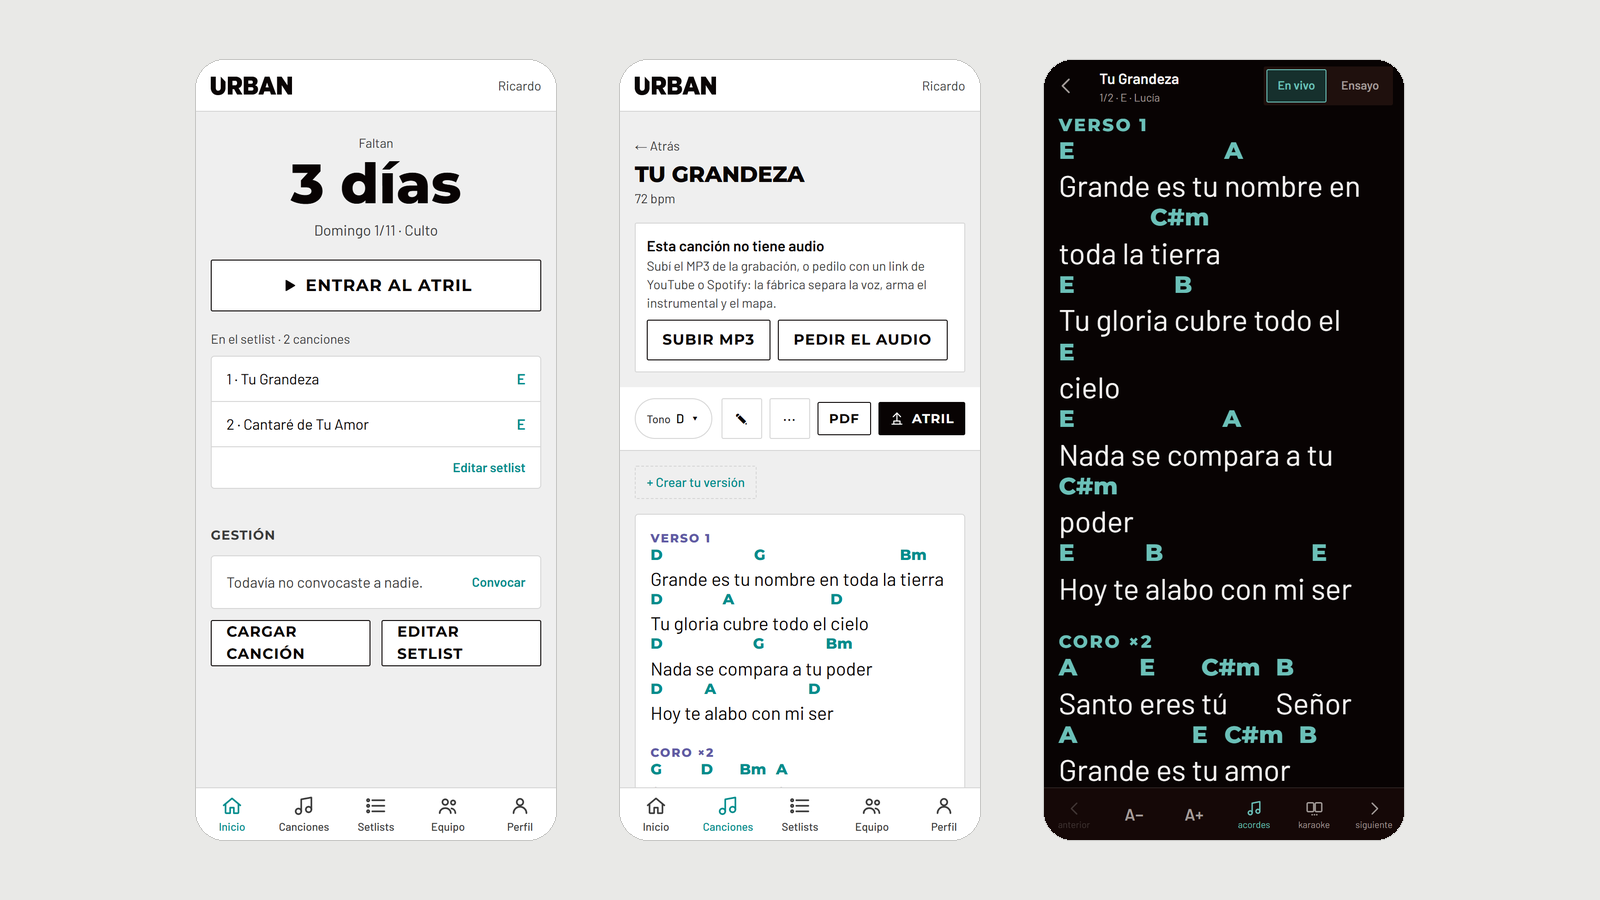
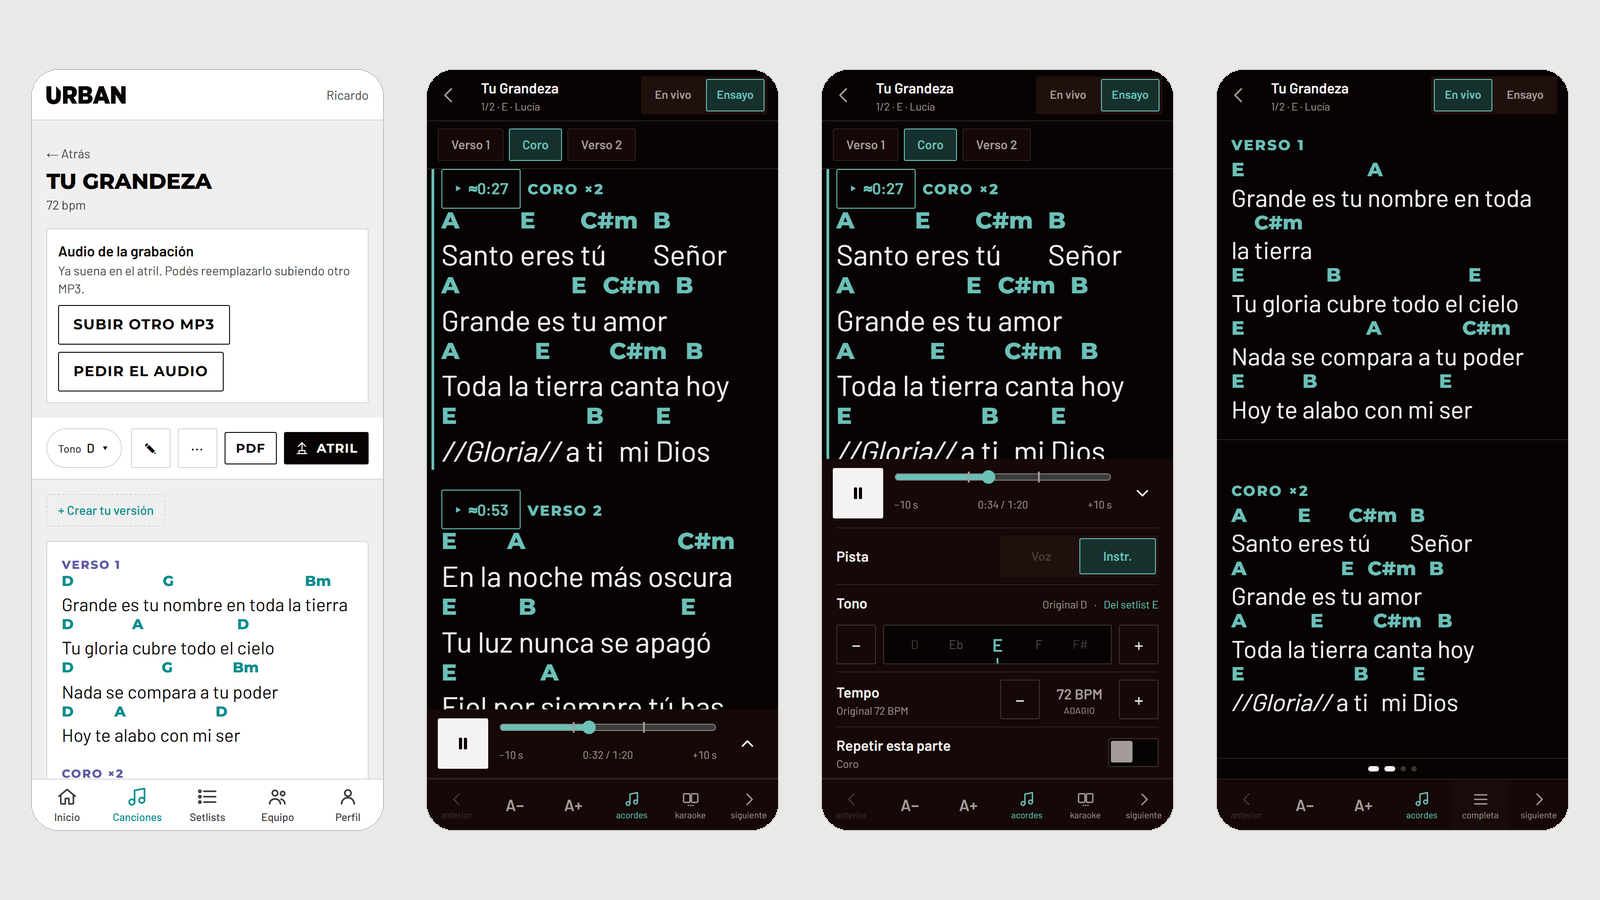
Songbook: capturas del modo Ensayo con audio y del karaoke

diff --git a/data/projects.ts b/data/projects.ts
@@ -66,7 +66,7 @@ export const projects: Project[] = [
     year: 2026,
     stack: ['Next.js', 'TypeScript', 'Drizzle ORM', 'PostgreSQL (Neon)', 'Web Push', 'Zod'],
     problem: 'Un equipo de música coordina por WhatsApp: quién toca, qué canciones, en qué tonalidad y con qué letra actualizada. La información se pierde entre mensajes y cada músico termina con su propia versión del repertorio.',
-    solution: 'Un cancionero único con acordes, transposición de tonalidad y capo personal por músico; setlists con convocatoria y confirmación de asistencia; atril con acceso autenticado o por enlace público; y permisos diferenciados entre líder, editor y miembro.',
+    solution: 'Un cancionero único con acordes, transposición de tonalidad y capo personal por músico; setlists con convocatoria y confirmación de asistencia; atril con acceso autenticado o por enlace público; y permisos diferenciados entre líder, editor y miembro. En el atril, un modo Ensayo reproduce el audio de la canción en el tono del setlist, cambia el tono y el tempo en el mismo celular y salta a cada parte con la letra siguiéndolo; y una vista karaoke muestra la letra en diapositivas de a dos.',
     results: [
       'En uso por un equipo de cinco personas',
       'Tres roles con permisos diferenciados',
